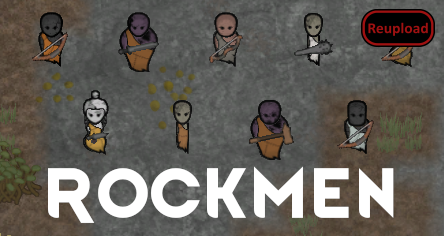
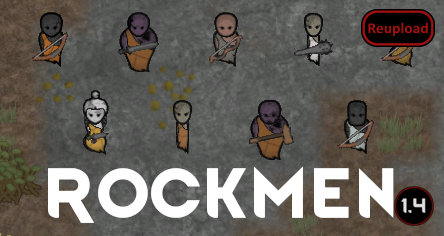
Added some body-tags to support special apparel like blindfolds

Changed region(s): [[0.8784, 0.7712, 0.9955, 0.9788]]

diff --git a/README.md b/README.md
@@ -61,3 +61,4 @@ Thanks all for the suggestions.
 
 
 
+https://steamcommunity.com/sharedfiles/filedetails/changelog/2568675522]Last updated 2023-08-18
